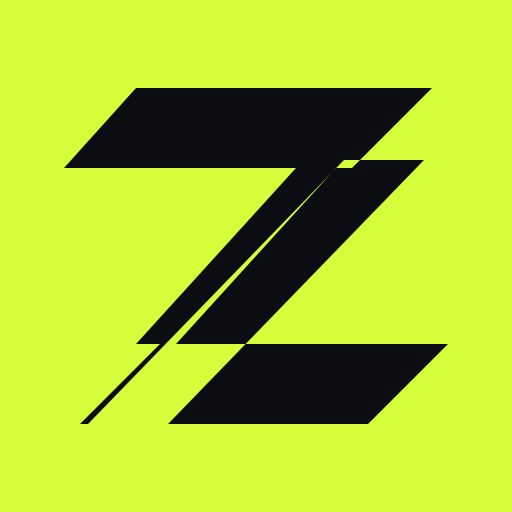
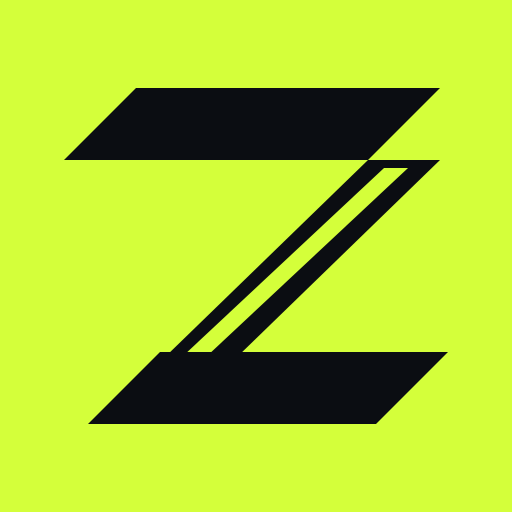
fix(branding): align Zor mark with approved silhouette

diff --git a/docs/superpowers/specs/2026-08-08-zor-complete-rebrand-design.md b/docs/superpowers/specs/2026-08-08-zor-complete-rebrand-design.md
@@ -20,7 +20,7 @@ The repository remains at its existing Forgejo and GitHub path, `hiten/IronPulse
 
 ### Brand character and palette
 
-Zor is sharp, fast, premium, and training-focused. Its mark derives from the approved second reference: a geometric, forward-leaning `Z` with a dual diagonal cut. It must remain recognizable at launcher-icon and favicon sizes without depending on texture, shadows, gradients, or a font.
+Zor is sharp, fast, premium, and training-focused. Its mark follows the approved reference: a compact, connected geometric `Z` with a solid outer silhouette (top rail, diagonal body, and bottom rail) and a narrow parallel transparent cut inside the diagonal. The cut must not extend beyond the Z or turn the mark into detached rails. It must remain recognizable at launcher-icon and favicon sizes without depending on texture, shadows, gradients, or a font.
 
 Canonical product tokens are:
 
